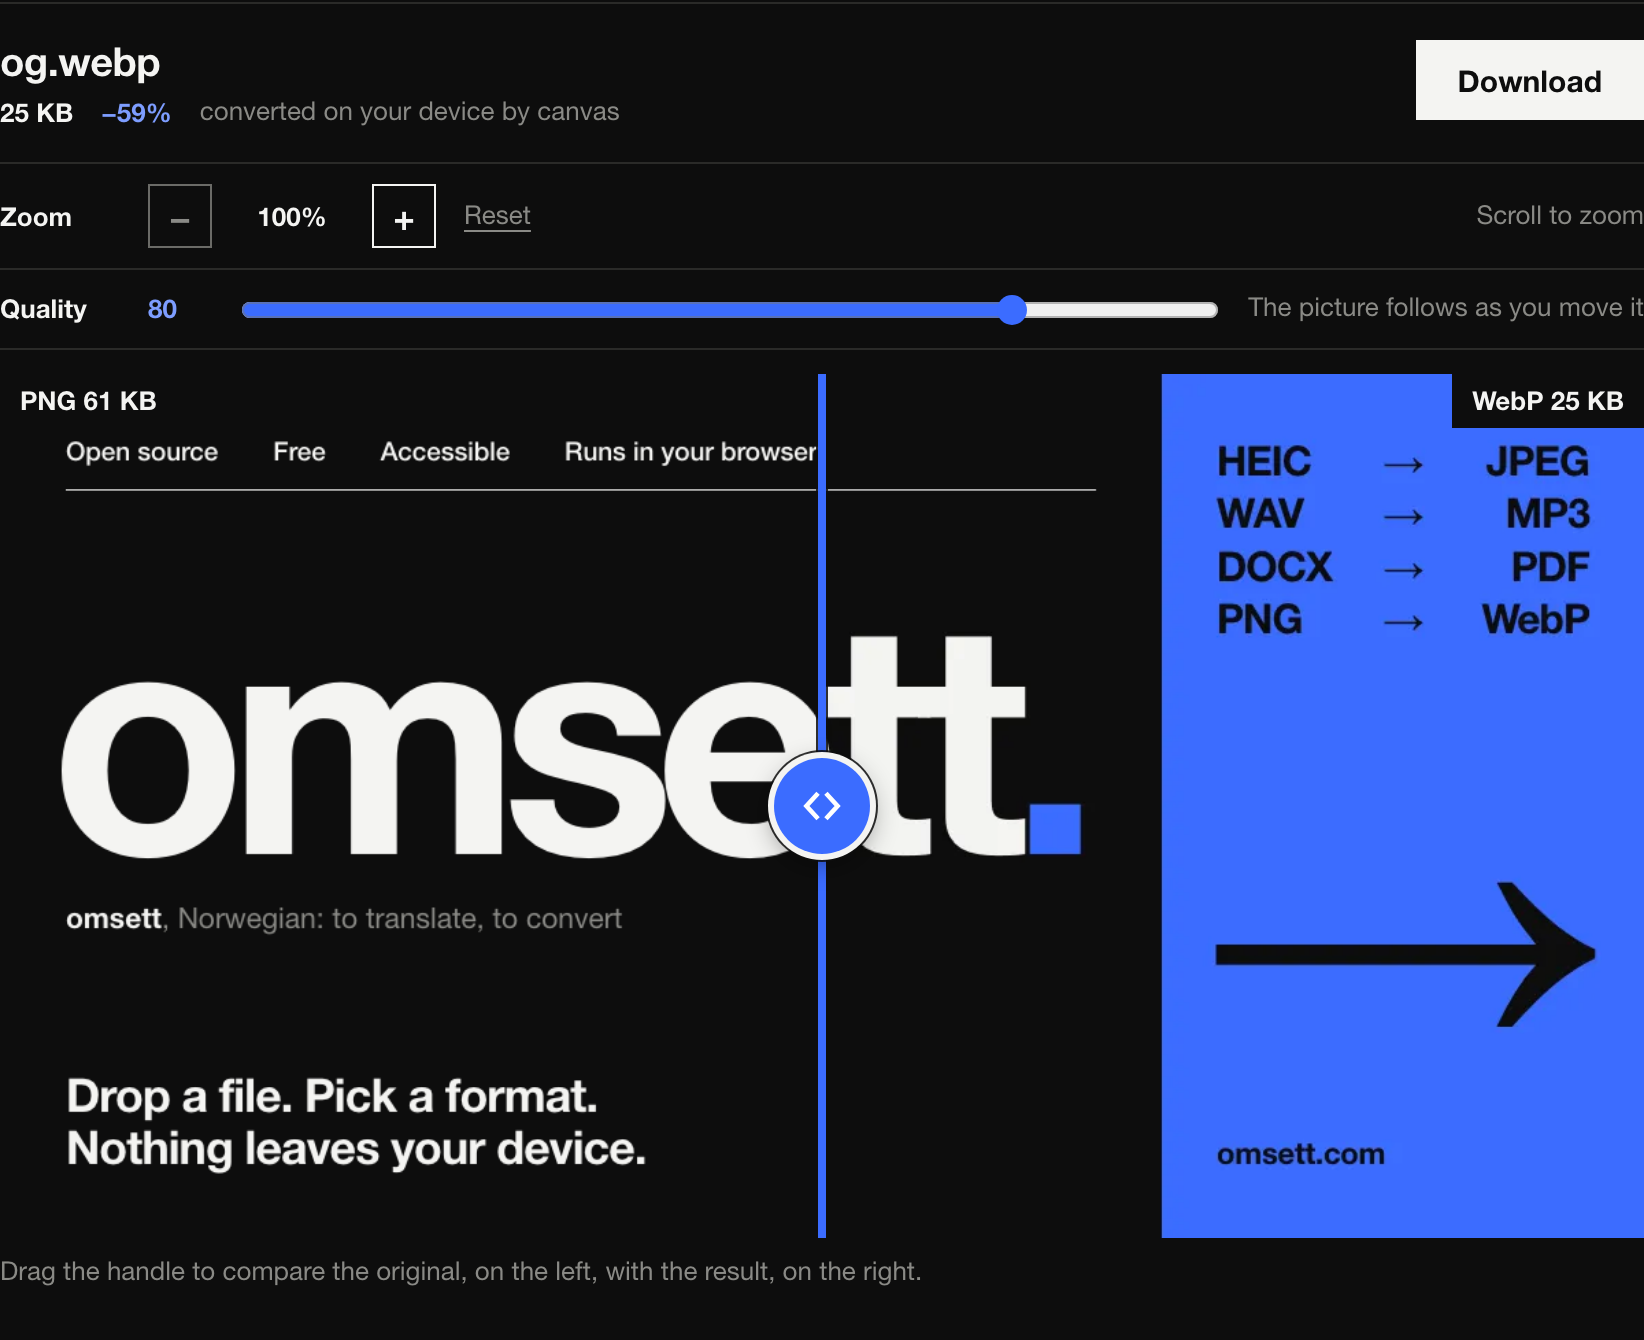
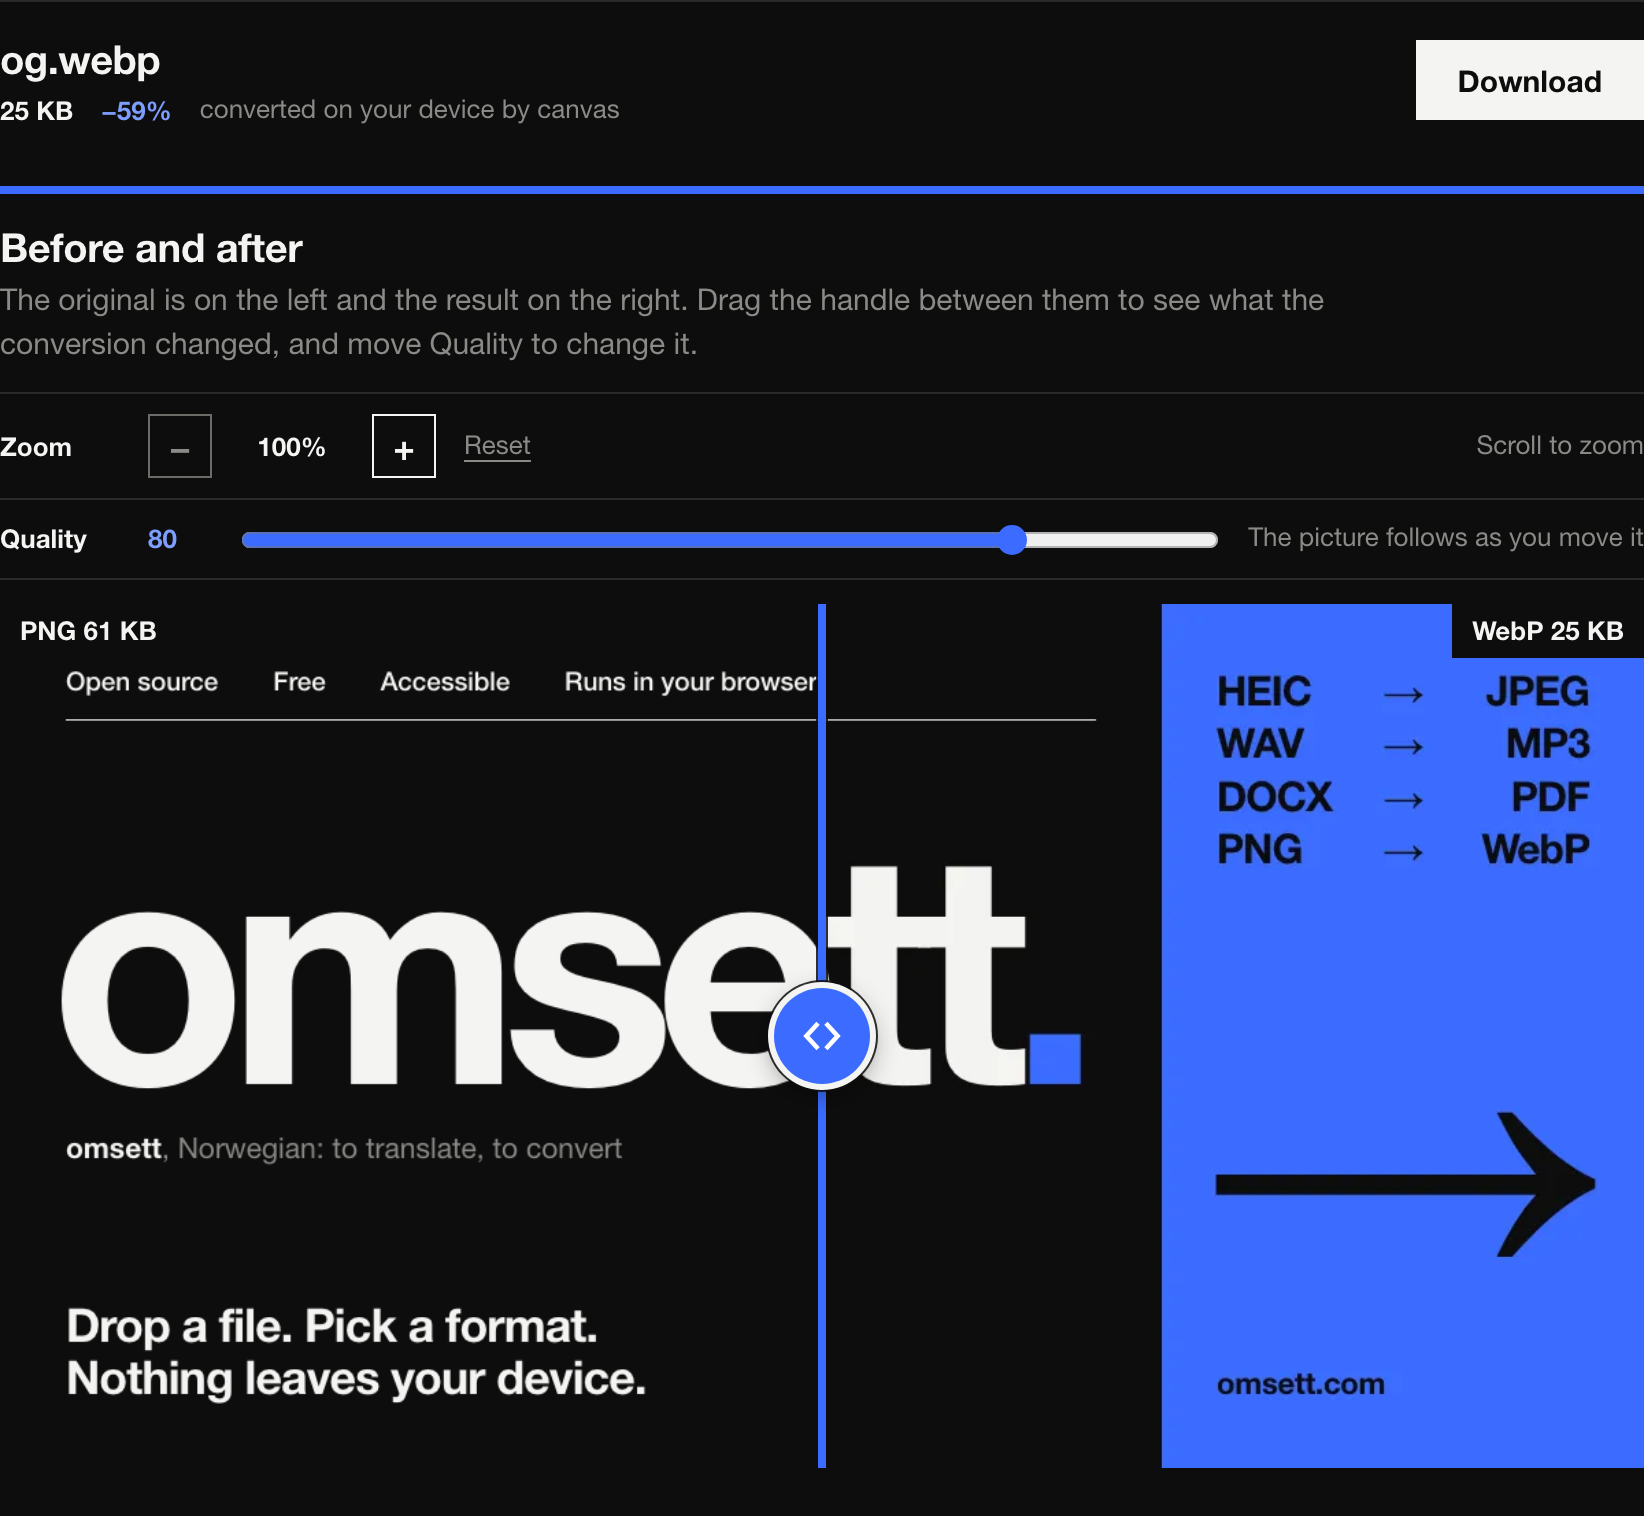
feat(web): a preview of the result before converting, and a comparison that cannot be missed

diff --git a/apps/web/app/composables/useConversionQueue.ts b/apps/web/app/composables/useConversionQueue.ts
@@ -329,6 +329,9 @@ export function useConversionQueue() {
     const target = selected.value
     if (!canConvert.value || !target?.route) return
     converting.value = true
+    // A preview being made is let finish first: one engine does one thing at a time.
+    clearTimeout(previewSoon)
+    if (previewing) await previewing
     // "Convert another" ends a session while this may still be waiting on a file. Whatever
     // comes back after that belongs to a session that is over, and is dropped.
     const session = sessions
@@ -426,8 +429,106 @@ export function useConversionQueue() {
     }, 120)
   })
 
+  // --- A look at the result before converting ---------------------------------------------------
+  // With one picture and a picture format chosen, the conversion is run quietly and shown beside
+  // the original, so that the choice of format and quality can be made by looking. It is the
+  // same conversion Convert will do; nothing is kept from it but what is on the screen.
+  //
+  // It never fetches a converter. One that has not been downloaded is named with its size, and
+  // fetched only if the person asks for the preview.
+  interface Preview {
+    state: 'working' | 'ready' | 'needs' | 'failed'
+    source: File
+    from: string
+    to: string
+    blob?: Blob
+    /** Bytes to download first, where a converter is not yet here. */
+    bytes?: number
+  }
+  const preview = shallowRef<Preview | null>(null)
+  /** Targets the person has said may fetch what they need for a preview. */
+  const fetchFor = ref<string[]>([])
+  let previewing: Promise<void> | null = null
+  let previewRun = 0
+  let previewSoon: ReturnType<typeof setTimeout> | undefined
+
+  async function makePreview() {
+    const run = ++previewRun
+    const target = selected.value
+    const ready = convertible.value
+    const entry = ready[0]
+    const detection = entry?.detection
+    const shown =
+      target?.route && entry && detection?.kind === 'known' && ready.length === 1 && !converting.value &&
+      detection.format.category === 'image' && target.format.category === 'image' &&
+      !results.value.some((result) => result.sourceId === entry.id && result.formatId === target.format.id)
+    const pixels = detection?.kind === 'known' ? pixelCount(detection.dimensions) : 0
+    if (!shown || !target.route || detection?.kind !== 'known' || pixels === 0 || pixels > PREVIEW_MAX_PIXELS) {
+      preview.value = null
+      return
+    }
+    const about = { source: entry.file, from: detection.format.id, to: target.format.id }
+    const hops = target.route.edges.map((edge) => ({ edge, candidate: viable(edge, pixels)[0] }))
+    if (hops.some((hop) => !hop.candidate)) {
+      preview.value = null
+      return
+    }
+    const missing = [...new Set(hops.map((hop) => hop.candidate!.engine))].filter((id) => (engines.info[id]?.sizeBytes ?? 0) > 0 && !engines.loaded.value.includes(id))
+    if (missing.length > 0 && !fetchFor.value.includes(target.format.id)) {
+      preview.value = { ...about, state: 'needs', bytes: missing.reduce((sum, id) => sum + engines.info[id]!.sizeBytes, 0) }
+      return
+    }
+    // The last look stays up while the next is made, so the picture does not blink as a setting moves.
+    const last = preview.value
+    preview.value = last?.state === 'ready' && last.source === about.source && last.to === about.to ? { ...last, state: 'working' } : { ...about, state: 'working' }
+    try {
+      let blob: Blob = entry.file
+      for (const [hop, { edge, candidate }] of hops.entries()) {
+        const final = hop === hops.length - 1
+        const chosen: Record<string, unknown> = {}
+        if (final && quality.value !== null && 'quality' in candidate!.defaultOptions) chosen.quality = quality.value
+        for (const [key, value] of Object.entries(choices.value)) if (final && key in candidate!.defaultOptions) chosen[key] = value
+        const outputs = await engines.convert(
+          candidate!.engine,
+          { blob, name: entry.file.name, from: formatById(registry, edge.from)!, to: formatById(registry, edge.to)!, options: { ...candidate!.defaultOptions, ...chosen }, maxPixels: MAX_PIXELS },
+          () => {},
+          conversionBudgetMs(pixels, blob.size),
+        )
+        if (!outputs[0]) throw new Error('nothing came back')
+        blob = outputs[0].blob
+      }
+      if (run === previewRun) preview.value = { ...about, state: 'ready', blob }
+    } catch {
+      // Why it failed is said when Convert is pressed, in the file's own row.
+      if (run === previewRun) preview.value = { ...about, state: 'failed' }
+    }
+  }
+  function schedulePreview() {
+    clearTimeout(previewSoon)
+    previewSoon = setTimeout(function again() {
+      // One at a time: a look that is being made is let finish before the next begins.
+      if (previewing || converting.value) previewSoon = setTimeout(again, 60)
+      else {
+        previewing = makePreview().finally(() => {
+          previewing = null
+        })
+      }
+    }, 120)
+  }
+  watch(
+    [targetId, () => convertible.value.map((entry) => entry.id).join(), quality, () => JSON.stringify(choices.value), () => results.value.length, converting, () => fetchFor.value.join()],
+    schedulePreview,
+  )
+  /** Fetch what the chosen format needs, and show the preview. */
+  function allowPreview() {
+    if (targetId.value && !fetchFor.value.includes(targetId.value)) fetchFor.value = [...fetchFor.value, targetId.value]
+  }
+
   function reset() {
     clearTimeout(requeue)
+    clearTimeout(previewSoon)
+    previewRun++
+    preview.value = null
     notice.value = ''
     sessions++
     stopClock()
@@ -449,6 +550,8 @@ export function useConversionQueue() {
     selected,
     converting,
     arrived,
+    preview,
+    allowPreview,
     quality,
     choices,
     defaultQuality,

diff --git a/apps/web/app/pages/index.vue b/apps/web/app/pages/index.vue
@@ -36,10 +36,13 @@ useHead({
 
 // The list of formats is long, and the result comes after it. When a conversion a person asked
 // for is done, the result is brought to the top of the window, where the comparison can be seen.
-watch(queue.arrived, async () => {
-  await nextTick()
+function showResult() {
   const calm = window.matchMedia('(prefers-reduced-motion: reduce)').matches
   document.getElementById('results-heading')?.scrollIntoView({ block: 'start', behavior: calm ? 'auto' : 'smooth' })
+}
+watch(queue.arrived, async () => {
+  await nextTick()
+  showResult()
 })
 
 function onKeydown(event: KeyboardEvent) {
@@ -170,6 +173,31 @@ onBeforeUnmount(() => {
           :suggested="queue.defaultQuality.value"
         />
 
+        <!-- A look at the result before converting: one picture, a picture format, and a
+             converter that is already here. One that is not is fetched only when asked for. -->
+        <div v-if="queue.preview.value" class="preview" data-testid="preview" :data-state="queue.preview.value.state">
+          <CompareSlider
+            v-if="queue.preview.value.blob"
+            preview
+            :before="queue.preview.value.source"
+            :after="queue.preview.value.blob"
+            :before-label="`Original ${formatBytes(queue.preview.value.source.size)}`"
+            :after-label="`${queue.selected.value?.format.name ?? ''} ${formatBytes(queue.preview.value.blob.size)}`"
+            :quality="queue.quality.value"
+            :suggested-quality="queue.defaultQuality.value"
+            :busy="queue.preview.value.state === 'working'"
+            @update:quality="queue.quality.value = $event"
+          />
+          <p v-else-if="queue.preview.value.state === 'needs'" class="preview-ask">
+            <button type="button" class="button" data-testid="preview-fetch" @click="queue.allowPreview()">Show a preview</button>
+            <span>
+              Seeing how {{ queue.selected.value?.format.name }} will look means fetching its converter first:
+              {{ formatBytes(queue.preview.value.bytes ?? 0) }}, once.
+            </span>
+          </p>
+          <p v-else-if="queue.preview.value.state === 'working'" class="preview-ask" role="status">Making a preview…</p>
+        </div>
+
         <LanguageControl v-if="typeof choices.language === 'string'" v-model="choices.language" />
         <TableOptions
           v-if="typeof choices.headerRow === 'boolean'"
@@ -199,6 +227,16 @@ onBeforeUnmount(() => {
             <UKbd :value="isMac ? '⌘' : 'Ctrl'" />
             <UKbd value="Enter" />
           </span>
+          <!-- The result is below the list of formats. Once there is one, this goes to it. -->
+          <button
+            v-if="queue.results.value.length && !queue.converting.value"
+            type="button"
+            class="to-result"
+            data-testid="to-result"
+            @click="showResult"
+          >
+            {{ queue.results.value.length === 1 ? 'Converted. See the result' : `${queue.results.value.length} converted. See the results` }}
+          </button>
           <!-- The whole batch at a glance: which file it is on, and that it is still going. -->
           <div v-if="queue.batch.value" class="batch" data-testid="batch">
             <p class="batch-line figures" data-testid="batch-line">{{ batchLine }}</p>
@@ -316,6 +354,38 @@ onBeforeUnmount(() => {
   padding: 0.875rem var(--margin);
   border-top: 2px solid var(--accent);
   background: var(--bg);
+}
+.preview {
+  max-width: 100%;
+}
+.preview-ask {
+  display: flex;
+  flex-wrap: wrap;
+  align-items: center;
+  gap: 0.75rem;
+  margin: 0;
+  padding-top: 0.875rem;
+  border-top: 4px solid var(--accent);
+  color: var(--muted);
+}
+/* Green is for what is ready. This says a result is, and goes to it. */
+.to-result {
+  padding: 0.6rem 1rem;
+  border: 2px solid var(--positive);
+  border-radius: 0;
+  background: transparent;
+  color: var(--positive);
+  font: inherit;
+  font-weight: 700;
+  cursor: pointer;
+}
+.to-result:hover {
+  background: var(--positive);
+  color: var(--bg);
+}
+.to-result:focus-visible {
+  outline: 2px solid var(--accent);
+  outline-offset: 2px;
 }
 .summary {
   font-size: var(--text-small);

diff --git a/e2e/compare.spec.ts b/e2e/compare.spec.ts
@@ -151,6 +151,11 @@ test('the result is brought into view when a conversion is done, and stays put w
   await expect(page.locator('[data-testid="compare"][data-ready="true"]')).toBeVisible({ timeout: 15_000 })
   await expect(page.locator('#results-heading')).toBeInViewport()
   await expect(page.getByTestId('compare')).toBeInViewport()
+  await expect(page.getByTestId('compare-title')).toHaveText('Before and after')
+  // From anywhere in the list of formats, the bar at the foot of the window goes to the result.
+  await page.locator('[role="radio"][data-format="webp"]').scrollIntoViewIfNeeded()
+  await page.getByTestId('to-result').click()
+  await expect(page.locator('#results-heading')).toBeInViewport()
   // Moving the quality beside the comparison converts again; the page does not jump for that.
   // Wait for the glide to finish: the same place twice running.
   let before = -1
@@ -166,4 +171,50 @@ test('the result is brought into view when a conversion is done, and stays put w
   // A browser may nudge the page to show the control being used; it does not go back to the heading.
   expect(Math.abs((await page.evaluate(() => window.scrollY)) - before)).toBeLessThan(60)
   await expect(page.getByTestId('compare')).toBeInViewport()
+})
+
+test('the comparison is there before converting: a preview of what the result will be', async ({ page, browserName }) => {
+  await open(page)
+  await page.locator('#file-input').setInputFiles(ALPHA)
+  await expect(page.getByTestId('preview')).toHaveCount(0)
+  await page.locator('[role="radio"][data-format="jpeg"]').click()
+  // Chromium and Firefox write a JPEG with what the browser has. Where a converter would
+  // have to be fetched first, the page asks, and fetches nothing until told to.
+  if (browserName === 'webkit' && (await page.getByTestId('preview-fetch').count())) await page.getByTestId('preview-fetch').click()
+  const preview = page.locator('[data-testid="preview-compare"][data-ready="true"]')
+  await expect(preview).toBeVisible({ timeout: 30_000 })
+  await expect(preview.getByTestId('compare-title')).toHaveText('Preview: before and after')
+  await expect(preview).toContainText('Nothing is saved until you press Convert.')
+  // Nothing has been converted as far as the page is concerned: no result, nothing to download.
+  await expect(page.getByTestId('download')).toHaveCount(0)
+  await expect(page.locator('#results-heading')).toHaveCount(0)
+  // The preview follows the quality, and says how large the result would be.
+  const label = () => preview.locator('.tag.right').innerText()
+  const before = await label()
+  await preview.getByTestId('compare-quality').fill('10')
+  await expect.poll(label, { timeout: 15_000 }).not.toBe(before)
+  await expect(page.getByTestId('quality')).toHaveValue('10')
+  // Converting gives the real result, with the same setting, and the preview makes way for it.
+  await page.getByTestId('convert').click()
+  await expect(page.locator('[data-testid="compare"][data-ready="true"]')).toBeVisible({ timeout: 15_000 })
+  await expect(page.getByTestId('preview')).toHaveCount(0)
+  await expect(page.getByTestId('compare-quality')).toHaveValue('10')
+})
+
+test('a preview never fetches a converter unasked', async ({ page }) => {
+  const fetched: string[] = []
+  page.on('request', (request) => {
+    if (/\.wasm(?:$|\?)/.test(request.url())) fetched.push(request.url())
+  })
+  await open(page)
+  await page.locator('#file-input').setInputFiles(ALPHA)
+  // AVIF is written by a converter of several megabytes, which nobody has asked for yet.
+  await page.locator('[role="radio"][data-format="avif"]').click()
+  await expect(page.getByTestId('preview')).toHaveAttribute('data-state', 'needs')
+  await expect(page.getByTestId('preview')).toContainText('means fetching its converter first')
+  await page.waitForTimeout(800)
+  expect(fetched).toEqual([])
+  await page.getByTestId('preview-fetch').click()
+  await expect(page.locator('[data-testid="preview-compare"][data-ready="true"]')).toBeVisible({ timeout: 60_000 })
+  expect(fetched.length).toBeGreaterThan(0)
 })

diff --git a/apps/web/app/components/CompareSlider.vue b/apps/web/app/components/CompareSlider.vue
@@ -12,6 +12,8 @@ const props = defineProps<{
   suggestedQuality?: number | null
   /** True while a new result is being made, so the label can say so. */
   busy?: boolean
+  /** Set where this is a look ahead at a conversion not yet asked for. */
+  preview?: boolean
 }>()
 const emit = defineEmits<{ 'update:quality': [value: number] }>()
 
@@ -186,7 +188,14 @@ watch(
 </script>
 
 <template>
-  <figure v-if="!failed" class="compare" data-testid="compare" :data-ready="ready">
+  <figure v-if="!failed" class="compare" :data-testid="preview ? 'preview-compare' : 'compare'" :data-ready="ready">
+    <!-- Named and ruled off, so that it reads as a thing to use and not as a picture of the result. -->
+    <p class="compare-title" data-testid="compare-title">{{ preview ? 'Preview: before and after' : 'Before and after' }}</p>
+    <p class="compare-lead">
+      The original is on the left and {{ preview ? 'what the result will be' : 'the result' }} on the right. Drag the handle between them to see what the
+      conversion {{ preview ? 'will change' : 'changed' }}<template v-if="quality !== null && quality !== undefined">, and move Quality to change it</template>.
+      <template v-if="preview">Nothing is saved until you press Convert.</template>
+    </p>
     <div class="controls">
       <div class="control-row">
         <span class="control-name">Zoom</span>
@@ -272,16 +281,27 @@ watch(
         @keydown="touch"
       >
     </div>
-    <figcaption class="caption">
-      Drag the handle to compare the original, on the left, with the result, on the right.
-    </figcaption>
   </figure>
 </template>
 
 <style scoped>
 .compare {
   grid-column: 1 / -1;
-  margin: 1rem 0 0;
+  margin: 1.75rem 0 0;
+  padding-top: 0.875rem;
+  border-top: 4px solid var(--accent);
+}
+.compare-title {
+  margin: 0;
+  font-size: var(--text-lead);
+  font-weight: 700;
+  letter-spacing: -0.01em;
+  line-height: 1.2;
+}
+.compare-lead {
+  max-width: 44rem;
+  margin: 0.25rem 0 0.875rem;
+  color: var(--muted);
 }
 
 /* The bar above the picture: zoom, and quality where the conversion has one. */
